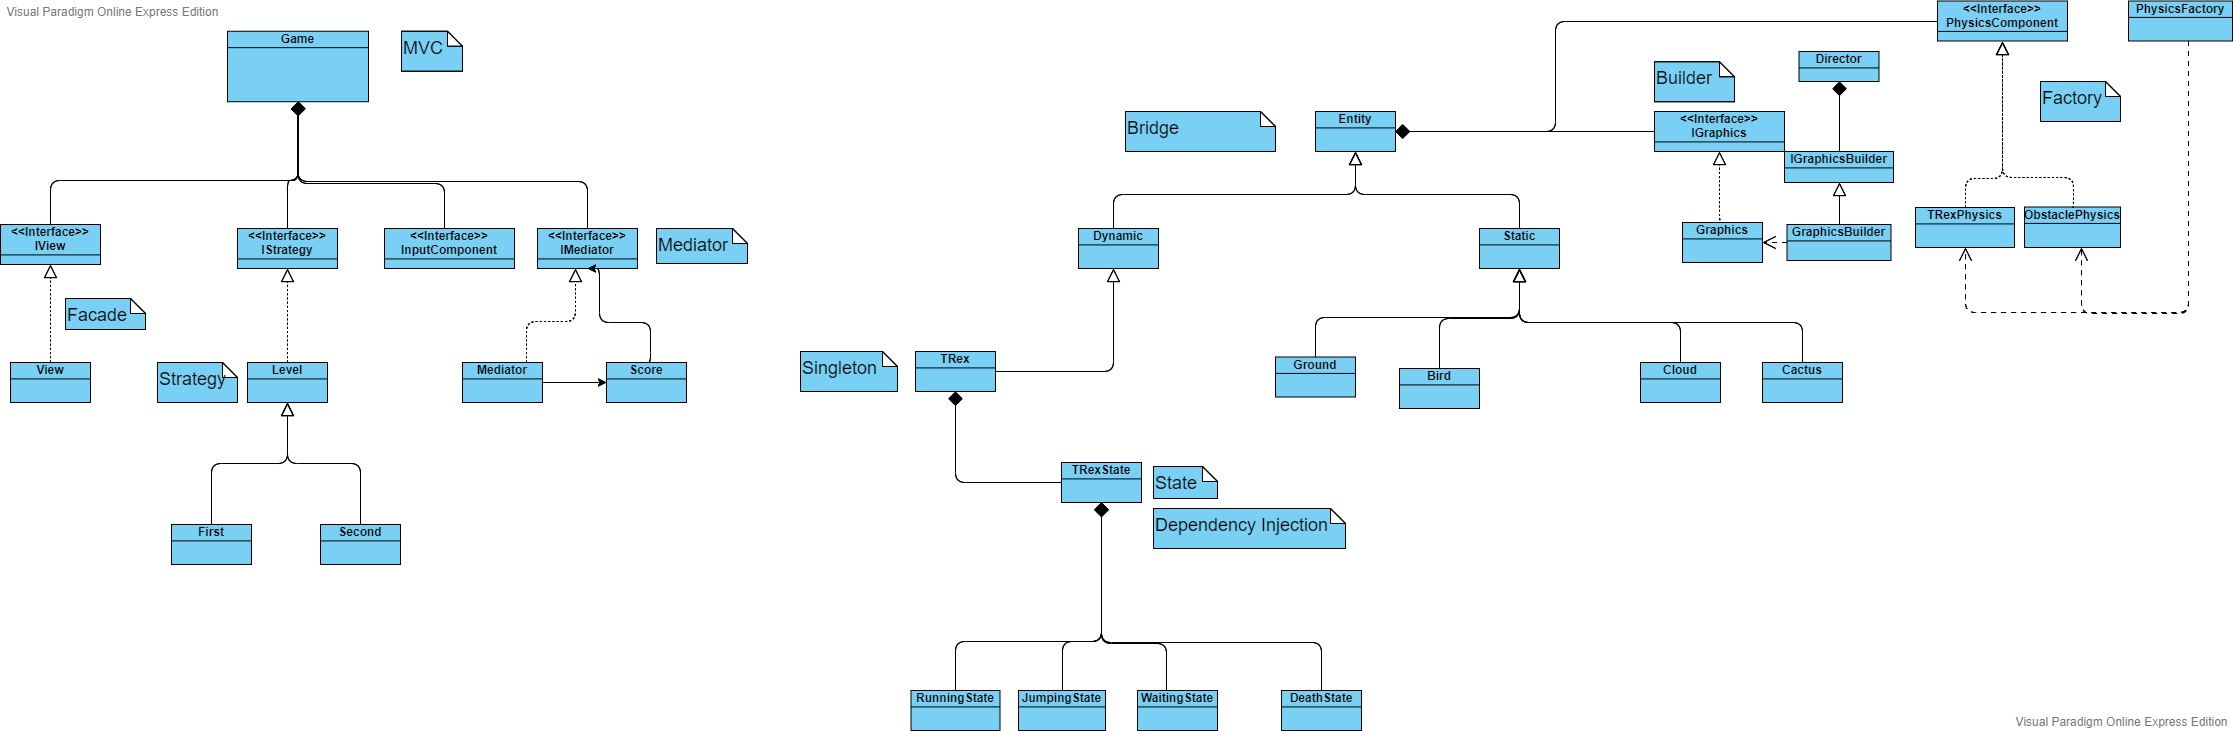
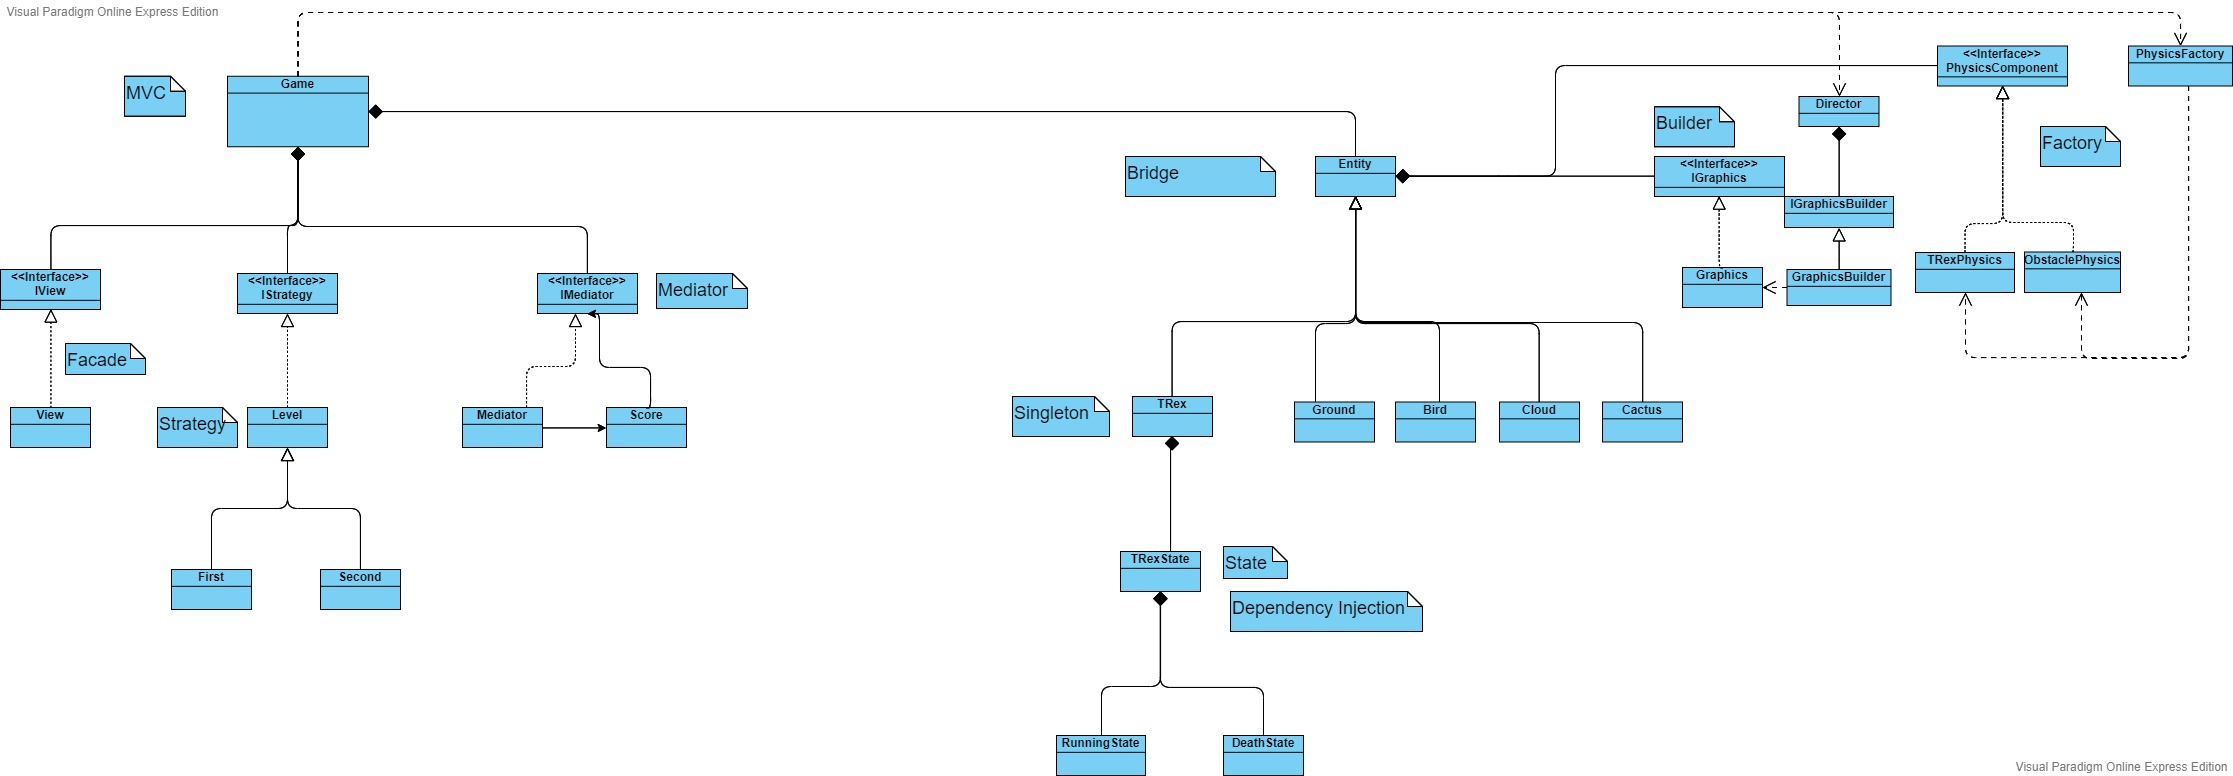
Update readme and class diagram

diff --git a/README.md b/README.md
@@ -1,3 +1,22 @@
 # TRexRunnerGame
+
+## Opis
+T. Rex Runner Game to desktopowa gra polegająca na omijaniu przeszkód biegnącym dinozaurem i zdobyciu jak największego wyniku. W grze wraz z postępem rośnie poziom trudności.
+
+## Zastosowane wzorce projektowe
+
+1. `Bridge` - oddzielenie abstrakcji podziału jednostek od ich impementacji umożliwiający ich zmiany niezależnie od siebie
+2. `Builder` - oddzielenie konstrukcji graficznego komponentu o złożonej strukturze od jego reprezentacji. Ten sam proces konstrukcji jest używany do tworzenia grafiki dla różnych typów jednostek.
+3. `Factory` - tworzenie komponentu obsługującego fizykę różnych typów jednostek bez określania ich konkretnych klas
+4. `Singleton` - zapewnienie, że główna postać (dinozaur) będzie miała jedną globalnie dostępną instancję
+5. `State` - w zależności od stanu gry dinozaur przyjmuje różną prezentację graficzną
+6. `Dependency Injection` - usunięcie bezpośredniej zależności pomiędzy komponentami gry
+7. `MVC` - podział gry na 3 komponenty: widok - klasy View i komponenty graficzne odpowiedzialne za wyświetlanie, model - klasy obsługujące fizykę zawierają rdzeń działania gry oraz kontroler - główna klasa Game obsługująca wejście i komunikująca się z modelem i widokiem
+8. `Facade` - interfejs widoku udostępnia prosty interfejs dla złożonej klasy (Windows Forms)
+9. `Strategy` - w zależności od osiągniętego wyniku zmiana poziomu trudności
+10. `Mediator` - obsługuje zmianę stanu gry wywołując odpowiednie metody
+
+## Diagram klas
+
 **Class diagram:**<br>
 ![cd](docs/ClassDiagram.jpg)<br>
